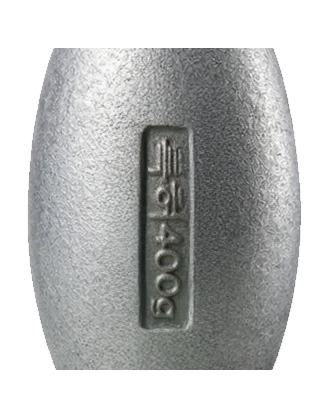
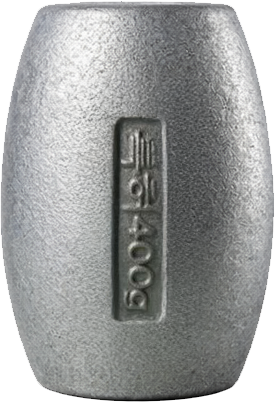
fix: 제품 이미지 바닥 정렬 + 400g 원본 이미지 복원 (#5)
- 정치망추 4종 소스 원본으로 교체 (400g 잘림 해소)
- 이미지 컨테이너: absolute bottom + object-bottom으로 제품 바닥선 통일

diff --git a/src/components/sections/products/ProductShowcase.tsx b/src/components/sections/products/ProductShowcase.tsx
@@ -115,15 +115,15 @@ export default function ProductShowcase({ locale }: ProductShowcaseProps) {
                       transition={{ duration: 0.3 }}
                     >
                       <div
-                        className="relative w-full flex items-end justify-center"
+                        className="relative w-full overflow-hidden"
                         style={{ aspectRatio: '1/1', background: 'linear-gradient(180deg, #fafbfc 0%, #f0f4f8 100%)' }}
                       >
-                        <div className="relative" style={{ width: `${Math.round(scale * 100)}%`, height: `${Math.round(scale * 100)}%` }}>
+                        <div className="absolute bottom-0 left-1/2" style={{ width: `${Math.round(scale * 100)}%`, height: `${Math.round(scale * 100)}%`, transform: 'translateX(-50%)' }}>
                         <Image
                           src={item.image}
                           alt={item.model}
                           fill
-                          className="object-contain"
+                          className="object-contain object-bottom"
                           sizes="(max-width: 768px) 45vw, (max-width: 1024px) 22vw, 20vw"
                         />
                         </div>
